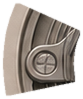
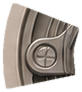
9 o'clock: bring the upper vanish line to 201 deg, just past the arm

diff --git a/index.html b/index.html
@@ -278,7 +278,7 @@
               <img class="cb-rig-static" src="/assets/caseback/rig/static-support-top.webp" style="left:55.502%;top:55.901%;width:3.828%;height:5.104%" alt="" decoding="async">
               <img class="cb-rig-static" src="/assets/caseback/rig/static-support-toptab.webp" style="left:54.147%;top:58.692%;width:2.313%;height:2.711%" alt="" decoding="async">
               <img class="cb-rig-static" src="/assets/caseback/rig/static-sec-eleven.webp" style="left:45.694%;top:56.619%;width:6.140%;height:6.140%" alt="" decoding="async">
-              <img class="cb-rig-static" src="/assets/caseback/rig/static-sec-nine.webp" style="left:42.105%;top:62.679%;width:6.619%;height:7.895%" alt="" decoding="async">
+              <img class="cb-rig-static" src="/assets/caseback/rig/static-sec-nine.webp" style="left:42.105%;top:63.238%;width:6.539%;height:7.337%" alt="" decoding="async">
               <img class="cb-rig-static" src="/assets/caseback/rig/static-support-bottom.webp" style="left:55.423%;top:72.807%;width:2.472%;height:5.183%" alt="" decoding="async">
               <img class="cb-rig-static" src="/assets/caseback/rig/static-support-bl-pad.webp" style="left:47.767%;top:72.488%;width:5.343%;height:6.380%" alt="" decoding="async">
               <img class="cb-rig-static" src="/assets/caseback/rig/static-support-bl-arm.webp" style="left:50.239%;top:71.531%;width:3.190%;height:3.429%" alt="" decoding="async">
